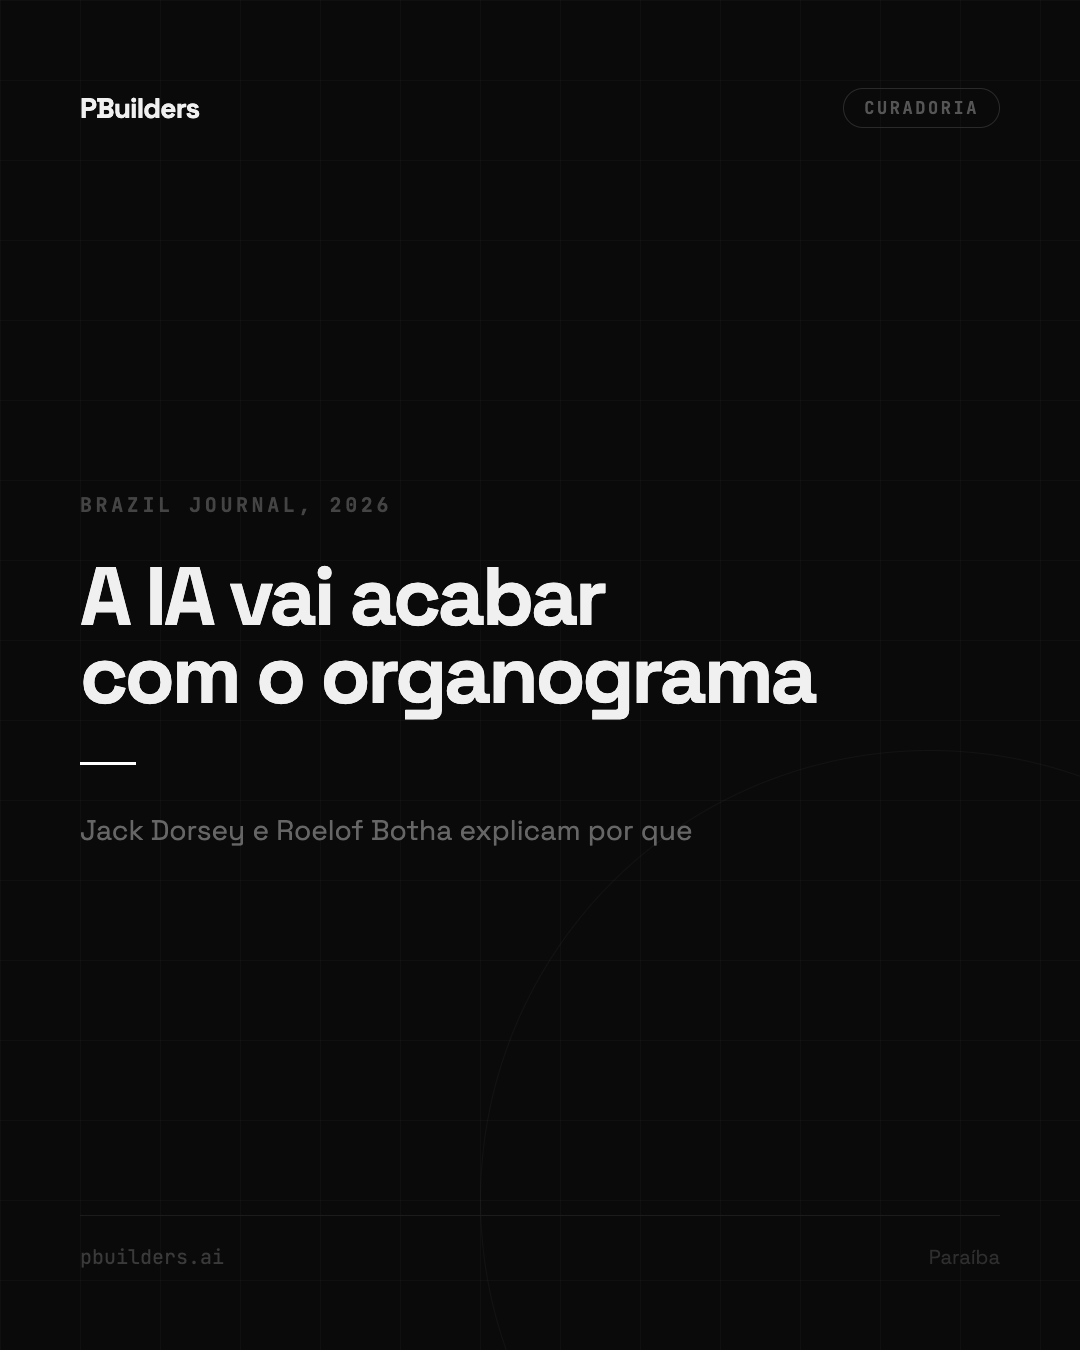
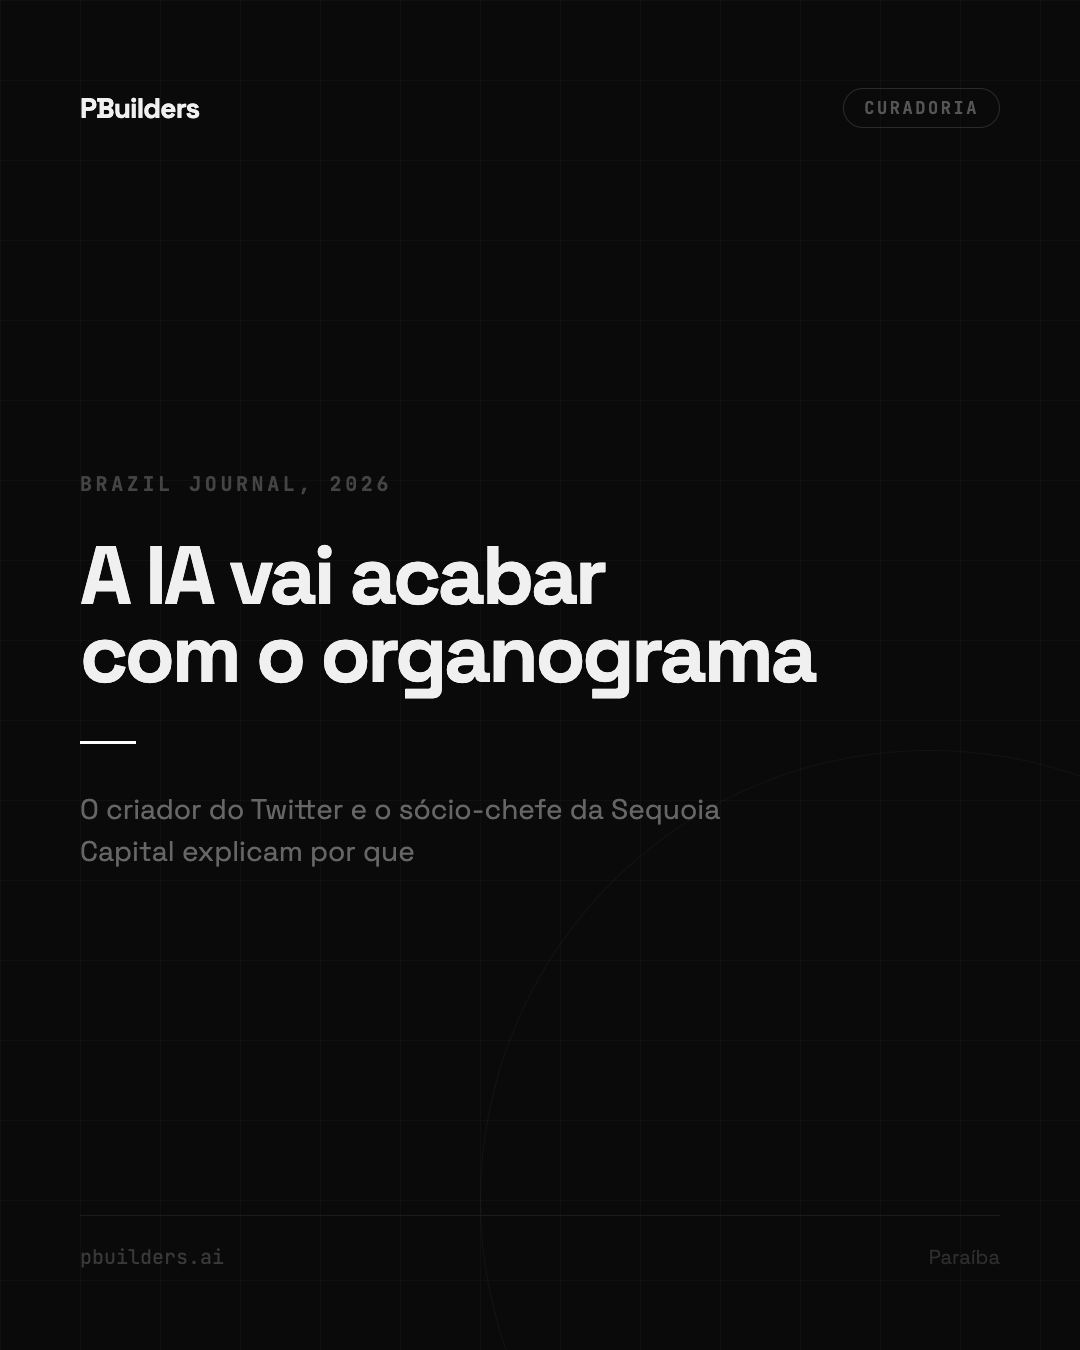
Carrossel: contextualizar identidade de Dorsey e Botha no slide 1

diff --git a/content/2026-04-08-middle-management/instagram-carousel.html b/content/2026-04-08-middle-management/instagram-carousel.html
@@ -425,7 +425,7 @@
       </div>
       <div class="accent-line"></div>
       <div class="subline">
-        Jack Dorsey e Roelof Botha explicam por que
+        O criador do Twitter e o sócio-chefe da Sequoia Capital explicam por que
       </div>
     </div>
 
